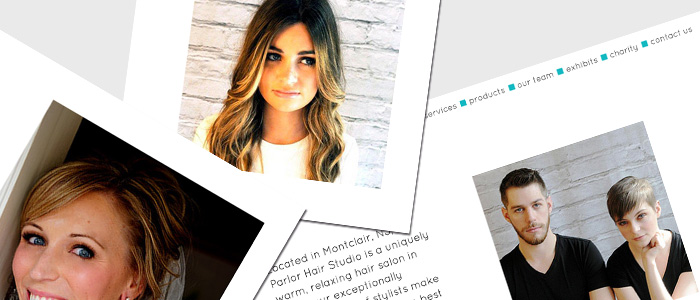
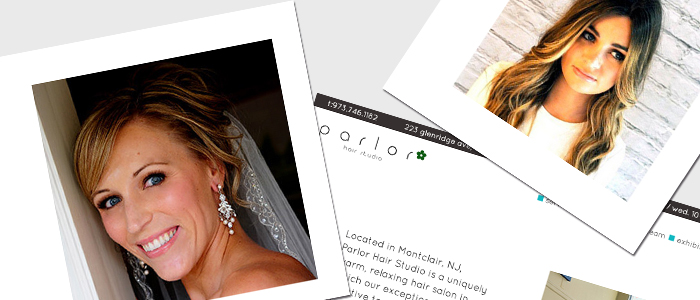
update parlor post and image

diff --git a/_drafts/2015-3-26-parlor-redesign.md b/_drafts/2015-3-26-parlor-redesign.md
@@ -3,10 +3,33 @@ title: 'New Site I Worked On: parlorhairstudio.com'
 comments: true
 author: Kai Gittens
 layout: post
-meta-excerpt: kaidez created a WordPress site for a Montclair, NJ hair salon, with a strong focus on optimizing the site for local SEO.
+meta-excerpt: kaidez created a WordPress site for a Montclair, NJ hair salon, with a strong focus on optimizing the site for local SEO. 
 permalink: /parlor-redesign/
 category: personal
 cat-name: "Personal"
-has-home-img: parlor.jpg
+has-home-img: parlor-redesign.jpg
 tags: [personal, wordpress]
 ---
+Many, many, many years ago, I created a Flash site for a close friend of mine's hair salon, Parlor Hair Studio in Montclair, NJ. At the time, I was was really good with Flash and was able to design and develop a site that was aligned with the times.
+
+Times have changed: Flash doesn't work on mobile, is not SEO-friendly and according to Brendan Eich, both Chrome and Firefox have blacklisted it. Plus, Flash made it was a pain to perfom even the simplest update...it was cleary a time for a change.
+
+##Table of Contents
+1. [Client Requirements](#client-requirements)
+2. [A Modern Design](#modern-design)
+
+<a name="client-requirements"></a>
+###Client Requirements
+
+The client requirements were very straight-forward:
+
+* make the design as modern as possible.
+
+* make it easy to update via WordPress.
+
+* make it mobile-friendly.
+
+* make as SEO-friendly as possible.
+
+<a name="modern-design"></a>
+###A Modern Design
